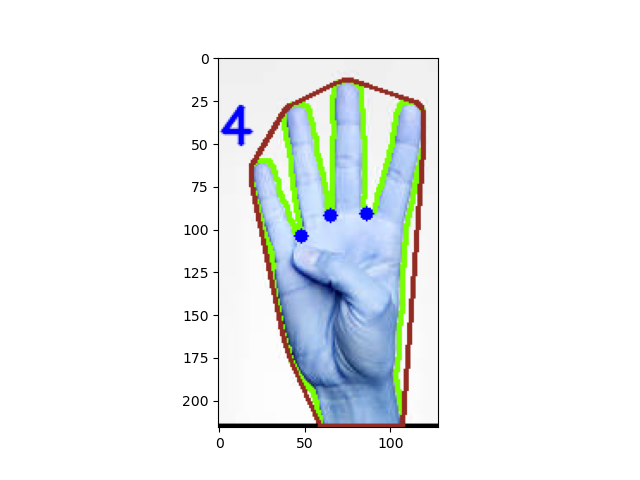
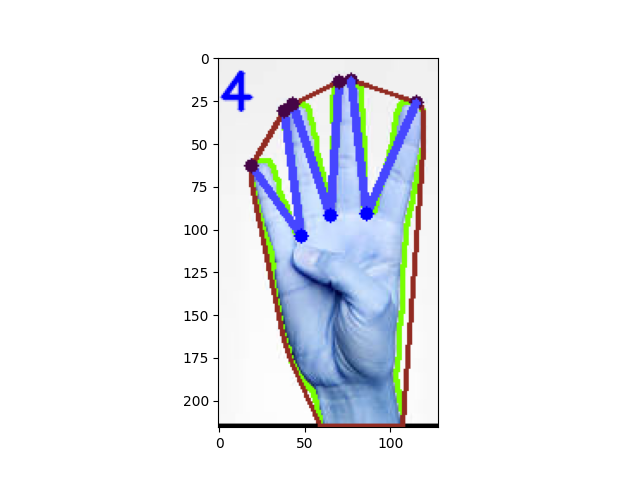
second commit

Changed region(s): [[0.3438, 0.1562, 0.6562, 0.5], [0.2812, 0.8125, 0.3438, 0.8438]]

diff --git a/main.py b/main.py
@@ -1,59 +1,78 @@
 import cv2 as cv
-import matplotlib.pyplot as plt
 
-img_path = "images/hands/hand5.png"
+img_path = "images/hands/5.png"
 img = cv.imread(img_path)
 
 import numpy as np
 
 hsvim = cv.cvtColor(img, cv.COLOR_BGR2HSV)
-lower = np.array([0, 40, 40], dtype = "uint8")
-upper = np.array([20, 255, 255], dtype = "uint8")
+lower = np.array([0, 40, 40], dtype="uint8")
+upper = np.array([20, 255, 255], dtype="uint8")
 skinRegionHSV = cv.inRange(hsvim, lower, upper)
-blurred = cv.blur(skinRegionHSV, (4,4))
-ret,thresh = cv.threshold(blurred,0,255,cv.THRESH_BINARY)
-#plt.imshow(thresh)
-#plt.show()
+blurred = cv.blur(skinRegionHSV, (4, 4))
+ret, thresh = cv.threshold(blurred, 0, 255, cv.THRESH_BINARY)
 
 contours, hierarchy = cv.findContours(thresh, cv.RETR_TREE, cv.CHAIN_APPROX_SIMPLE)
 contours = max(contours, key=lambda x: cv.contourArea(x))
-cv.drawContours(img, [contours], -1, (120,255,0), 2)
-#cv.imshow("contours", img)
-#plt.imshow(img)
-#plt.show()
-
+cv.drawContours(img, [contours], -1, (120, 255, 0), 2)
 hull = cv.convexHull(contours)
 cv.drawContours(img, [hull], -1, (146, 43, 34), 2)
-#plt.imshow(img)
-#plt.show()
 hull = cv.convexHull(contours, returnPoints=False)
 defects = cv.convexityDefects(contours, hull)
 
 if defects is not None:
-  cnt = 0
+    cnt = 0
 for i in range(defects.shape[0]):  # calculate the angle
-  s, e, f, d = defects[i][0]
-  start = contours[s][0]
-  end = contours[e][0]
-  far = contours[f][0]
-  a = np.sqrt((end[0] - start[0]) ** 2 + (end[1] - start[1]) ** 2)
-  b = np.sqrt((far[0] - start[0]) ** 2 + (far[1] - start[1]) ** 2)
-  c = np.sqrt((end[0] - far[0]) ** 2 + (end[1] - far[1]) ** 2)
-  angle = np.arccos((b ** 2 + c ** 2 - a ** 2) / (2 * b * c))  #      cosine theorem
-  print("s = {}".format(s),"e = {}".format(e))
-  if angle < np.pi / 2:  # angle less than 90 degree, treat as fingers
-    cnt += 1
-    cv.circle(img, far, 4, [0, 0, 255], -1)
-    #cv.line(img,start,end,[20, 255, 70],1)
-    #cv.line(img,far,d,[20, 255, 70],1)
-if cnt > 0:
-  cnt = cnt+1
-cv.putText(img, str(cnt), (0, 50), cv.FONT_HERSHEY_SIMPLEX,1, (0, 0, 255) , 2, cv.LINE_AA)
+    print(defects.shape[0])
+    s, e, f, d = defects[i][0]
+    start = contours[s][0]
+    end = contours[e][0]
+    far = contours[f][0]
 
-if(cnt>1):
-   print("number of finguers founds =  {}".format(cnt))
-else:
-  print(" {} finguer founds ".format(cnt))
+    a = np.sqrt((end[0] - start[0]) ** 2 + (end[1] - start[1]) ** 2)
+    b = np.sqrt((far[0] - start[0]) ** 2 + (far[1] - start[1]) ** 2)
+    c = np.sqrt((end[0] - far[0]) ** 2 + (end[1] - far[1]) ** 2)
+    angle = np.arccos((b ** 2 + c ** 2 - a ** 2) / (2 * b * c))  # cosine theorem
+    print(angle)
+
+    if angle <= np.pi / 2:  # angle less than 90 degree, treat as fingers
+        cnt += 1
+        cv.line(img, start, far, [70, 70, 255], 4)
+        cv.line(img, end, far, [70, 70, 255], 4)
+        cv.circle(img, far, 4, [0, 0, 255], -1)
+        cv.circle(img, end, 4, [70, 5, 70], -1)
+        cv.circle(img, start, 4, [70, 5, 70], -1)
+
+    elif angle == 2.1237579287889248:
+        cnt = 1
+        cv.line(img, start, far, [70, 70, 255], 4)
+        cv.line(img, end, far, [70, 70, 255], 4)
+        cv.circle(img, far, 4, [0, 0, 255], -1)
+        cv.circle(img, end, 4, [70, 5, 70], -1)
+        cv.circle(img, start, 4, [70, 5, 70], -1)
+
+if cnt == 1 :
+  cv.line(img, start, far, [70, 70, 255], 4)
+  cv.line(img, end, far, [70, 70, 255], 4)
+  cv.circle(img, far, 4, [0, 0, 255], -1)
+  cv.putText(img, str(cnt), (0, 30), cv.FONT_HERSHEY_SIMPLEX, 1, (0, 0, 255), 2, cv.LINE_AA)
+
+elif cnt > 1 :
+    cnt = cnt + 1
+    cv.line(img, start, far, [70, 70, 255], 4)
+    cv.line(img, end, far, [70, 70, 255], 4)
+    cv.circle(img, far, 4, [0, 0, 255], -1)
+    cv.putText(img, str(cnt), (0, 30), cv.FONT_HERSHEY_SIMPLEX, 1, (0, 0, 255), 2, cv.LINE_AA)
+
+elif cnt == 0:
+    cv.line(img, start, far, [70, 70, 255], 4)
+    cv.line(img, end, far, [70, 70, 255], 4)
+    cv.circle(img, far, 4, [0, 0, 255], -1)
+    cv.putText(img, str(cnt), (0, 30), cv.FONT_HERSHEY_SIMPLEX, 1, (0, 0, 255), 2, cv.LINE_AA)
+
+import matplotlib.pyplot as plt
+
 plt.imshow(img)
-plt.savefig('result/5.png')
+plt.savefig('results/5.png')
 plt.show()
+
